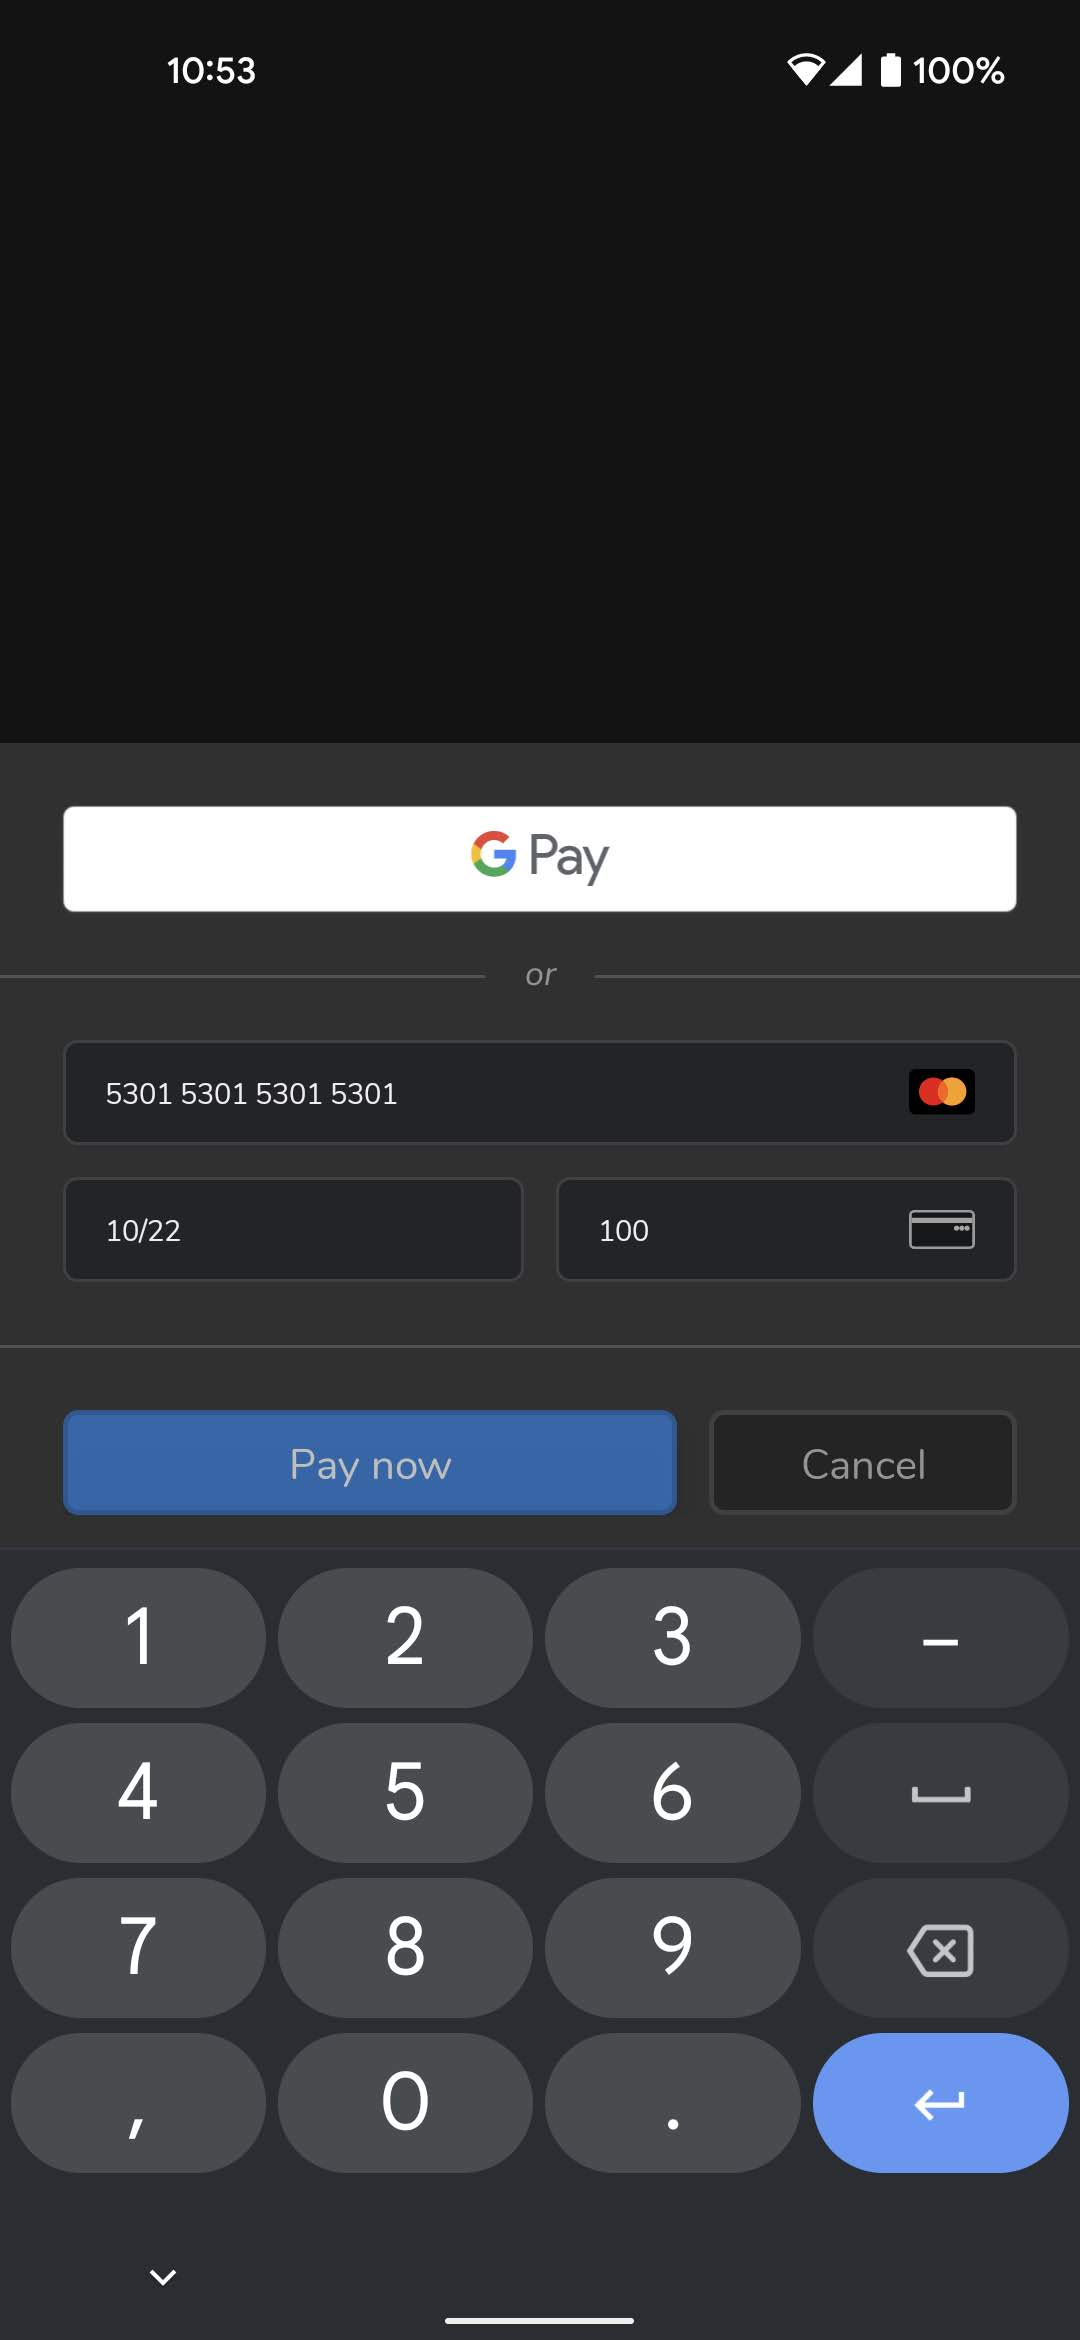
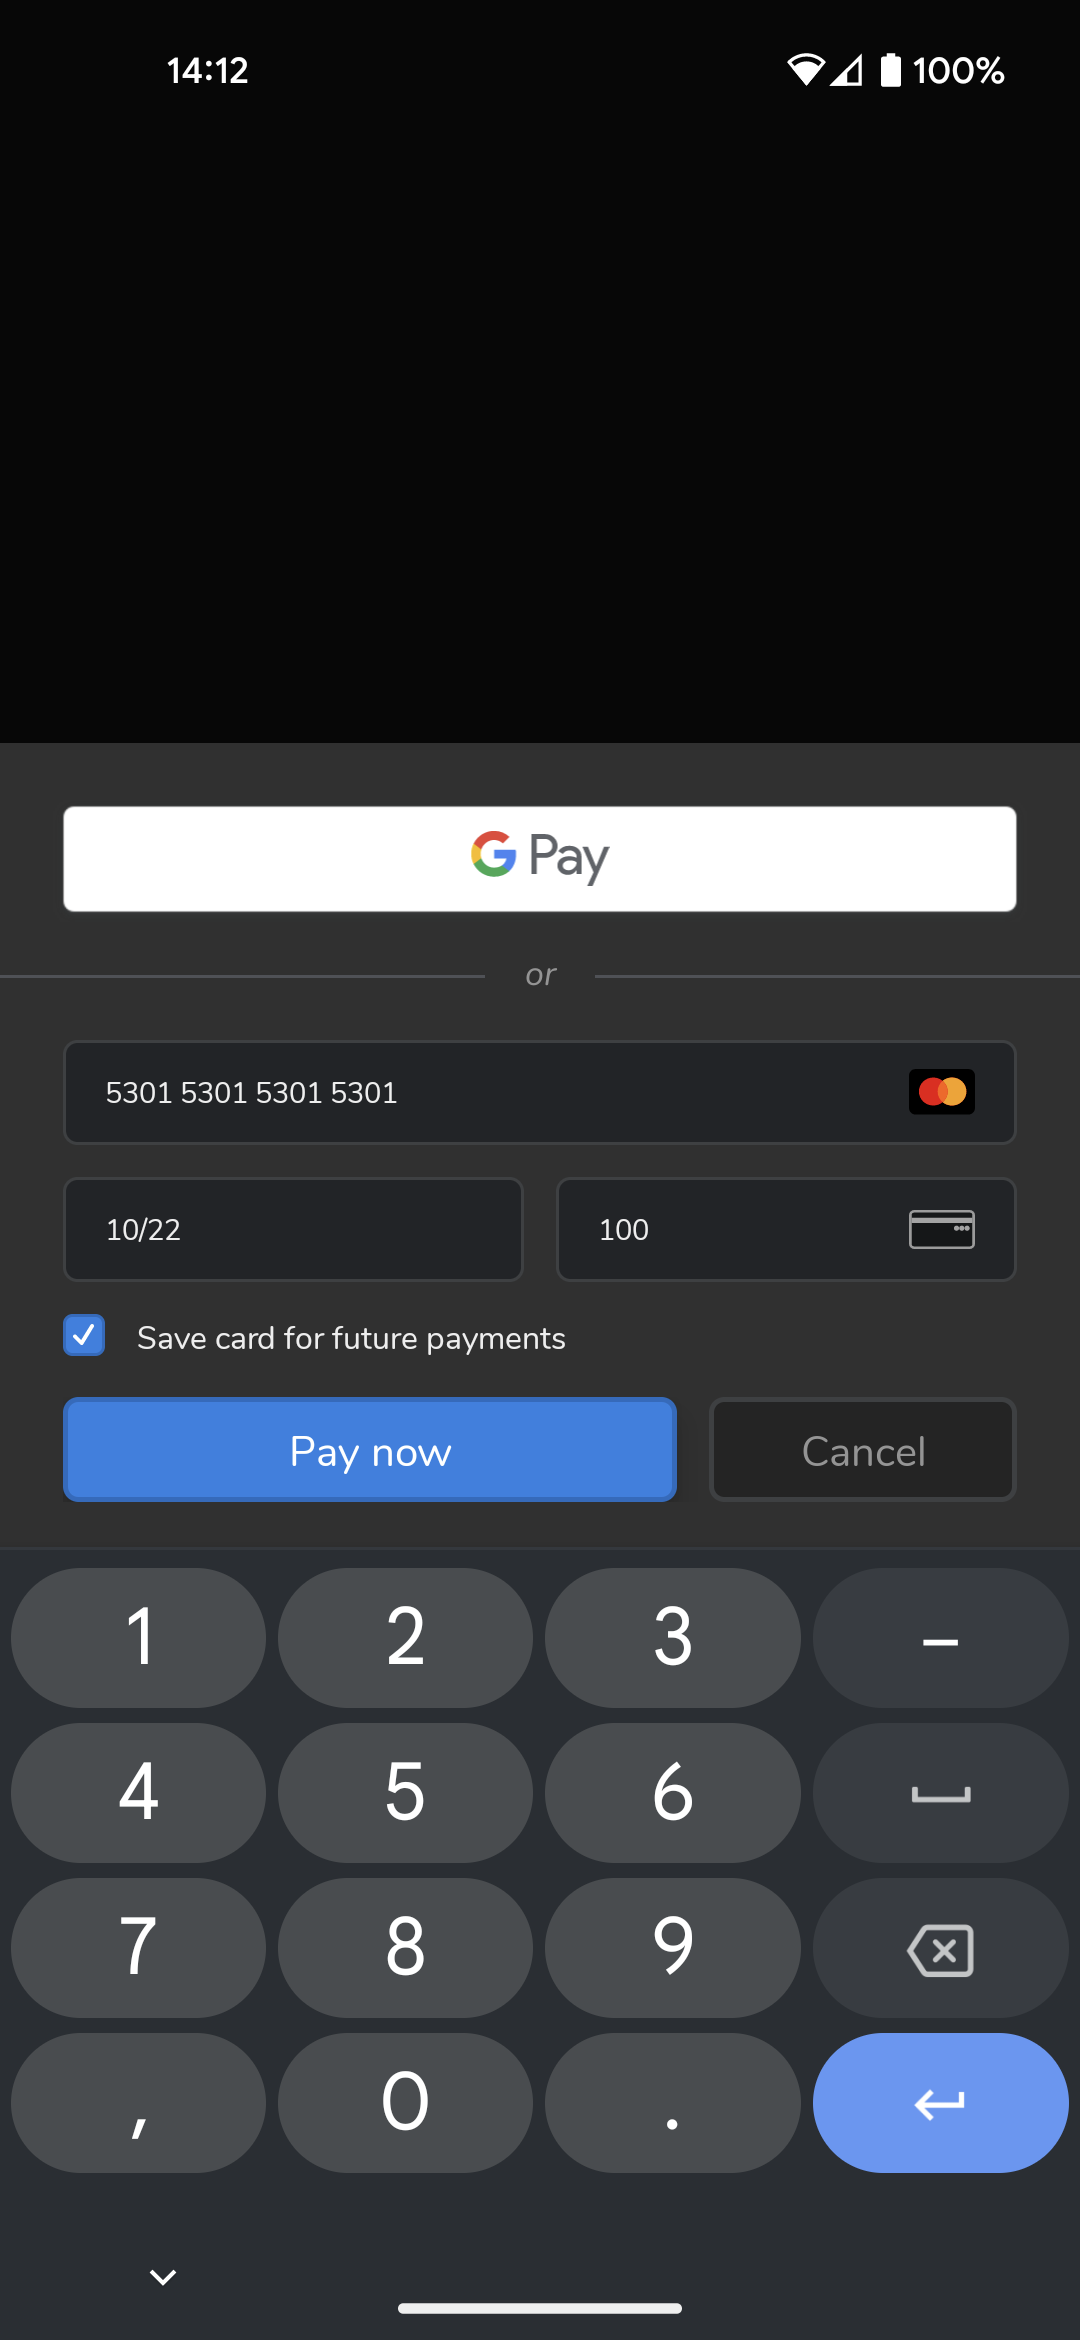
[R1332] Save card README updates (#20)
- Update screenshots on README for saved cards
- Add new sections for SetupCard usage and customisation

diff --git a/README.md b/README.md
@@ -209,6 +209,44 @@ Note that if a payment requires further action for the payment to be approved (e
 
 No action is required from you in this use-case and you will either be notified that the payment was then approved, or that it failed (e.g. due to 3ds authentication)
 
+### Using the drop-in for setting up cards for future use
+
+A common use-case for some businesses is setting up and storing cards without charging the customer.
+This is also known as zero-value authorization or account verification.
+
+<img src="images/drop-in-setup-card.png" width=30% height=30%>
+
+The drop-in currently has 2 usages:
+- `Payment` (your customer is actively checking out and completing a purchase)
+- `SetupCard` (your customer wants to save their card for future use without incurring any charges)
+
+By default we will use `Payment`, however to customise the view simply pass the `usage` within the `display` configuration when initialising the drop-in:
+
+```kotlin
+RyftDropInConfiguration(
+    clientSecret = "<the client secret of the payment-session>",
+    subAccountId = null, // account verifications must be done via the standard account holder.
+    display = RyftDropInDisplayConfiguration(
+        usage = RyftDropInUsage.SetupCard
+    )
+    // Google Pay will not be shown so there is no need to provide the config
+)
+```
+
+### Customising the drop-in
+
+You can customise the title of the pay button by providing `payButtonTitle` within the `display` configuration when initialising the drop-in:
+
+```kotlin
+RyftDropInConfiguration(
+    clientSecret = "<the client secret of the payment-session>",
+    subAccountId = null || "<the Id of the sub-account you are taking payments for>",
+    display = RyftDropInDisplayConfiguration(
+        payButtonTitle = "Pay now"
+    )
+)
+```
+
 ### Further documentation
 
 For more information, please find our docs [here](https://developer.ryftpay.com/docs/build/android-mobile)
